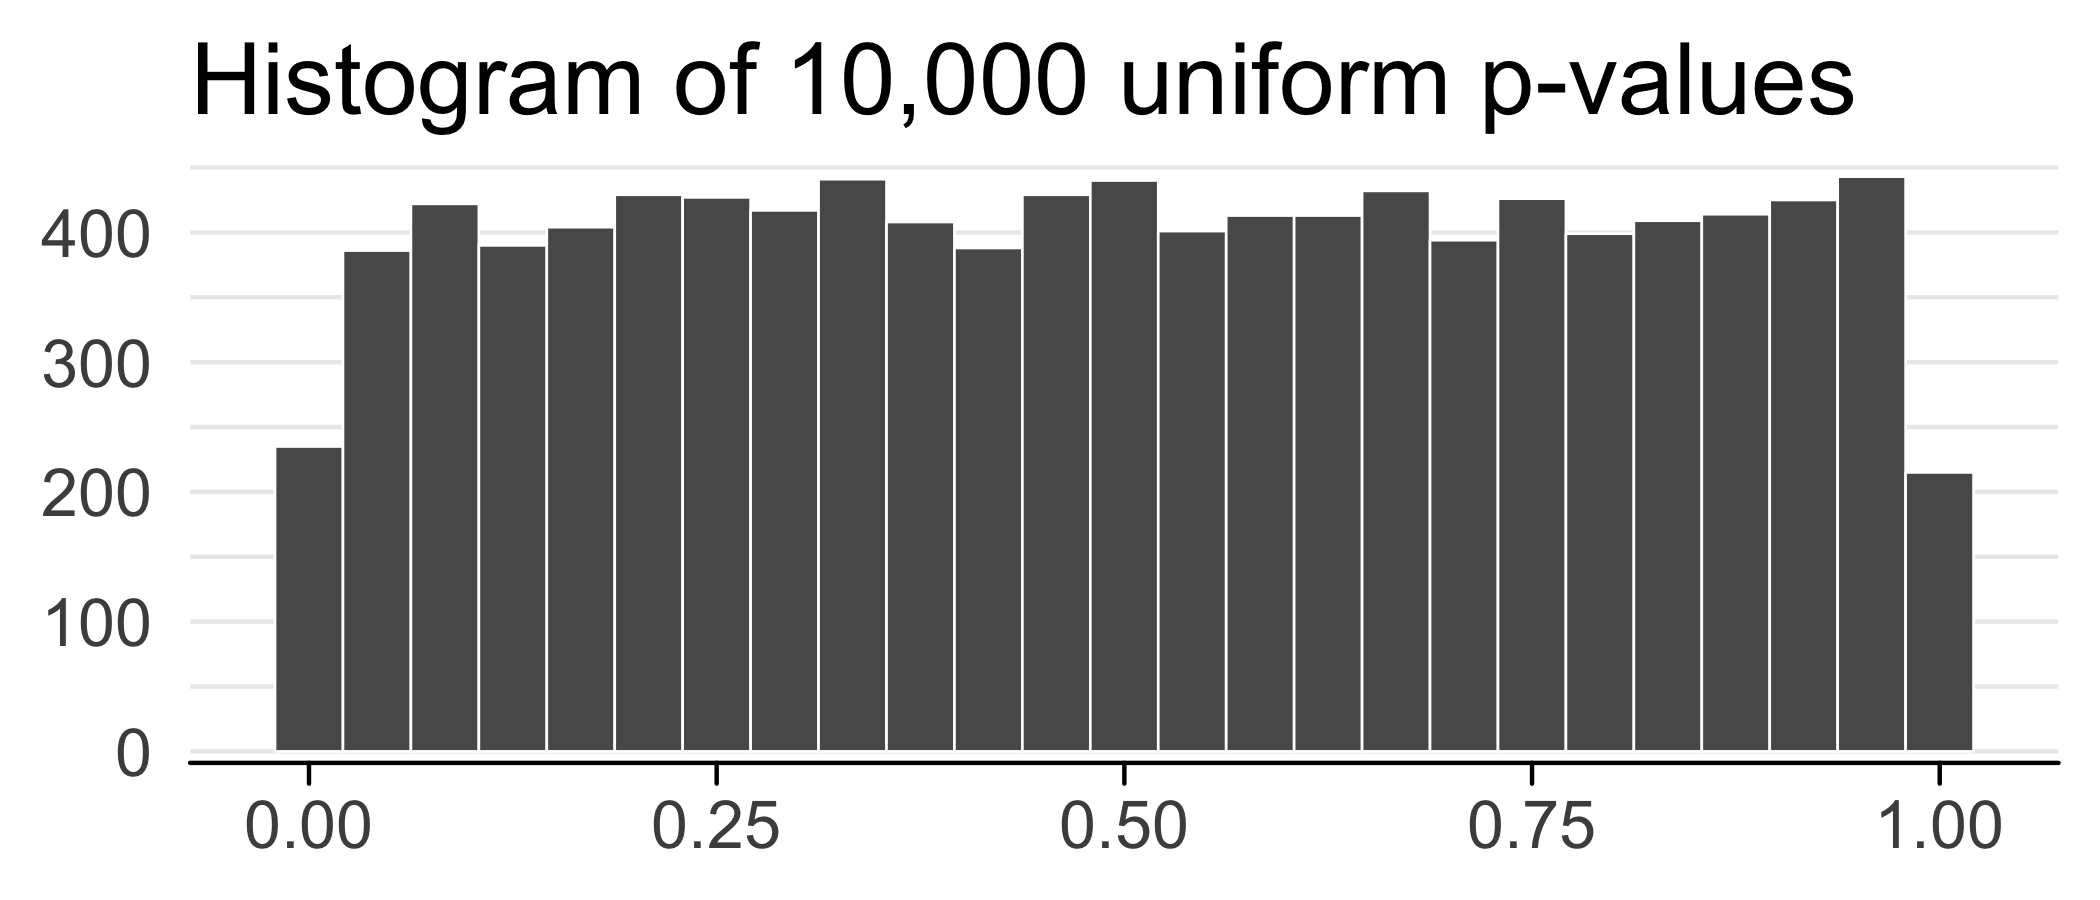
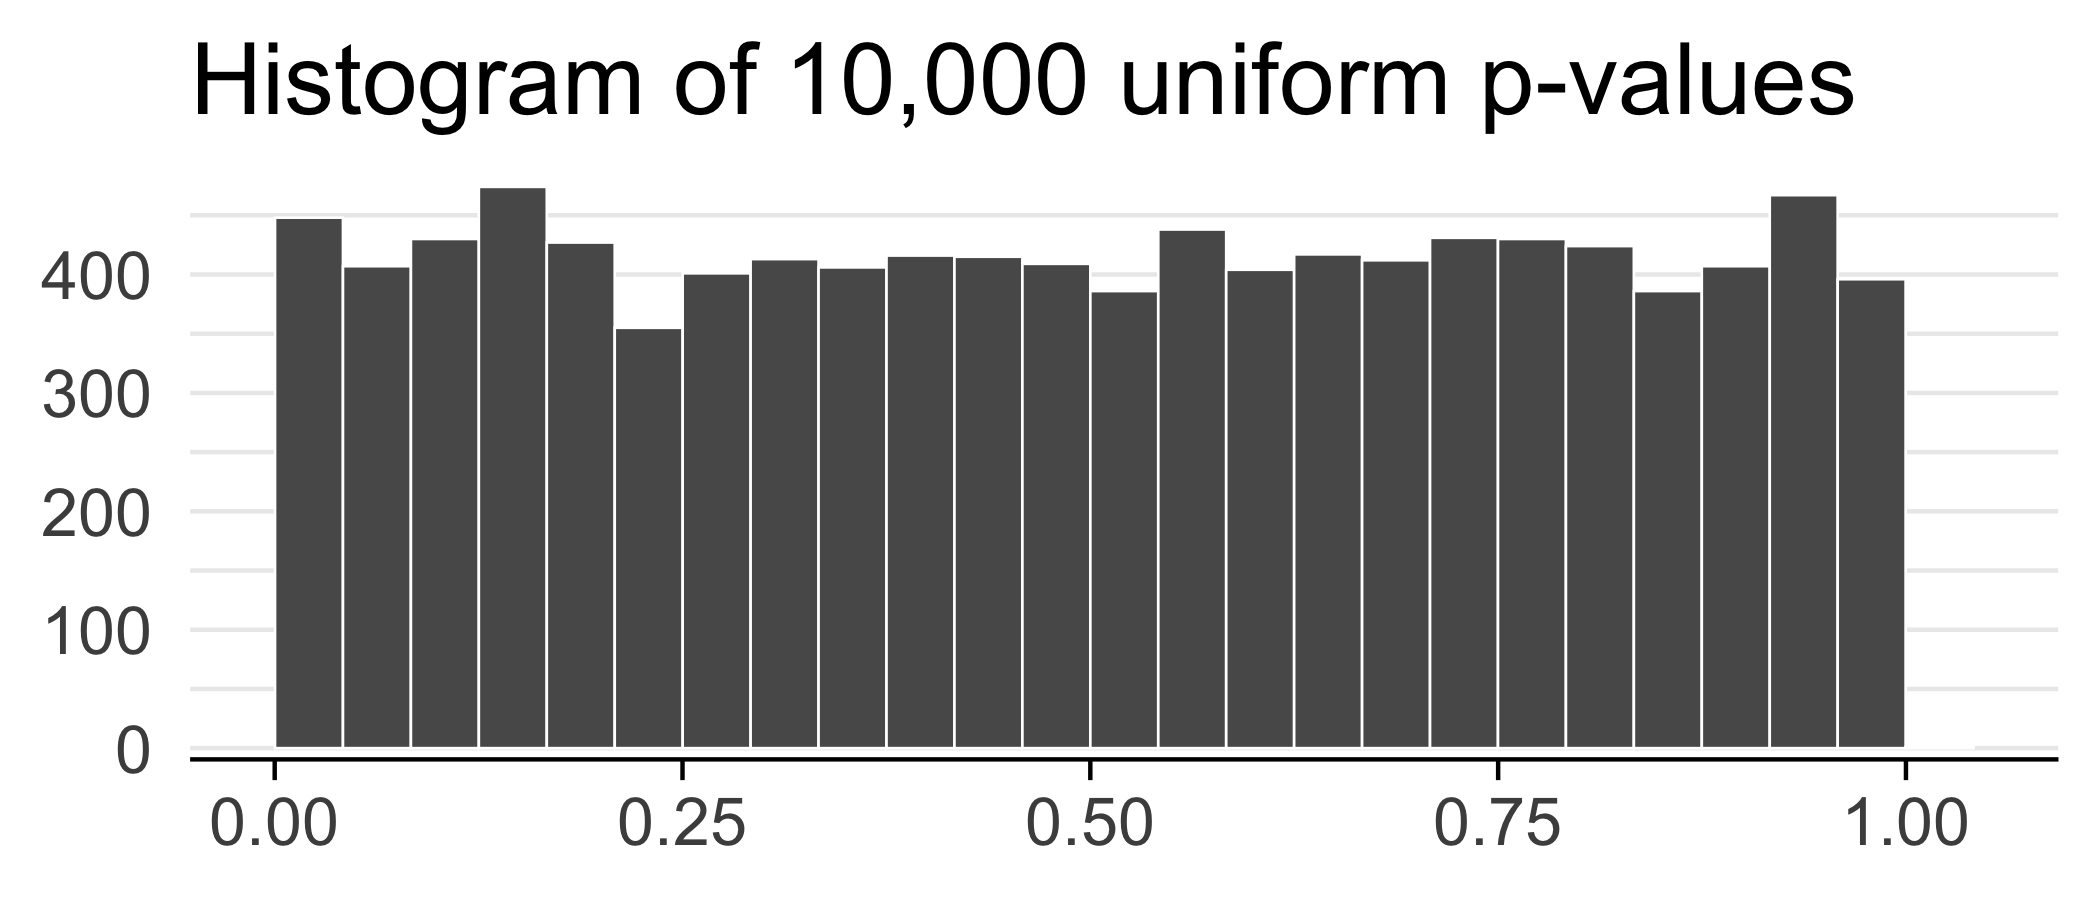
fix bug, thanks to @nealpsmith

diff --git a/content/notes/ggplot2-qqplot.md b/content/notes/ggplot2-qqplot.md
@@ -28,9 +28,10 @@ Suppose we did 10,000 tests and got a p-value for each test.
 
 
 ```r
+set.seed(42)
 ps <- runif(n = 1e4)
 ggplot(data.frame(ps)) +
-  geom_histogram(aes(x = ps), bins = 25, color = "white", size = 0.3) +
+  geom_histogram(aes(x = ps), bins = 25, color = "white", size = 0.3, boundary = 0.5) +
   theme_minimal(base_size = 20) +
   labs(x = NULL, y = NULL, title = "Histogram of 10,000 uniform p-values") +
   scale_y_continuous(expand = c(0.02, 0)) +
@@ -134,15 +135,18 @@ Here's how you can compute it:
 
 
 ```r
-set.seed(1234)
-pvalue <- runif(1000, min=0, max=1)
 inflation <- function(ps) {
-  chisq <- qchisq(1 - pvalue, 1)
+  chisq <- qchisq(1 - ps, 1)
   lambda <- median(chisq) / qchisq(0.5, 1)
   lambda
 }
+set.seed(1234)
+pvalue <- runif(1000, min=0, max=1)
 inflation(pvalue)
-#> [1] 0.9532617
+```
+
+```{.bg-success}
+## [1] 0.9532617
 ```
 
 
